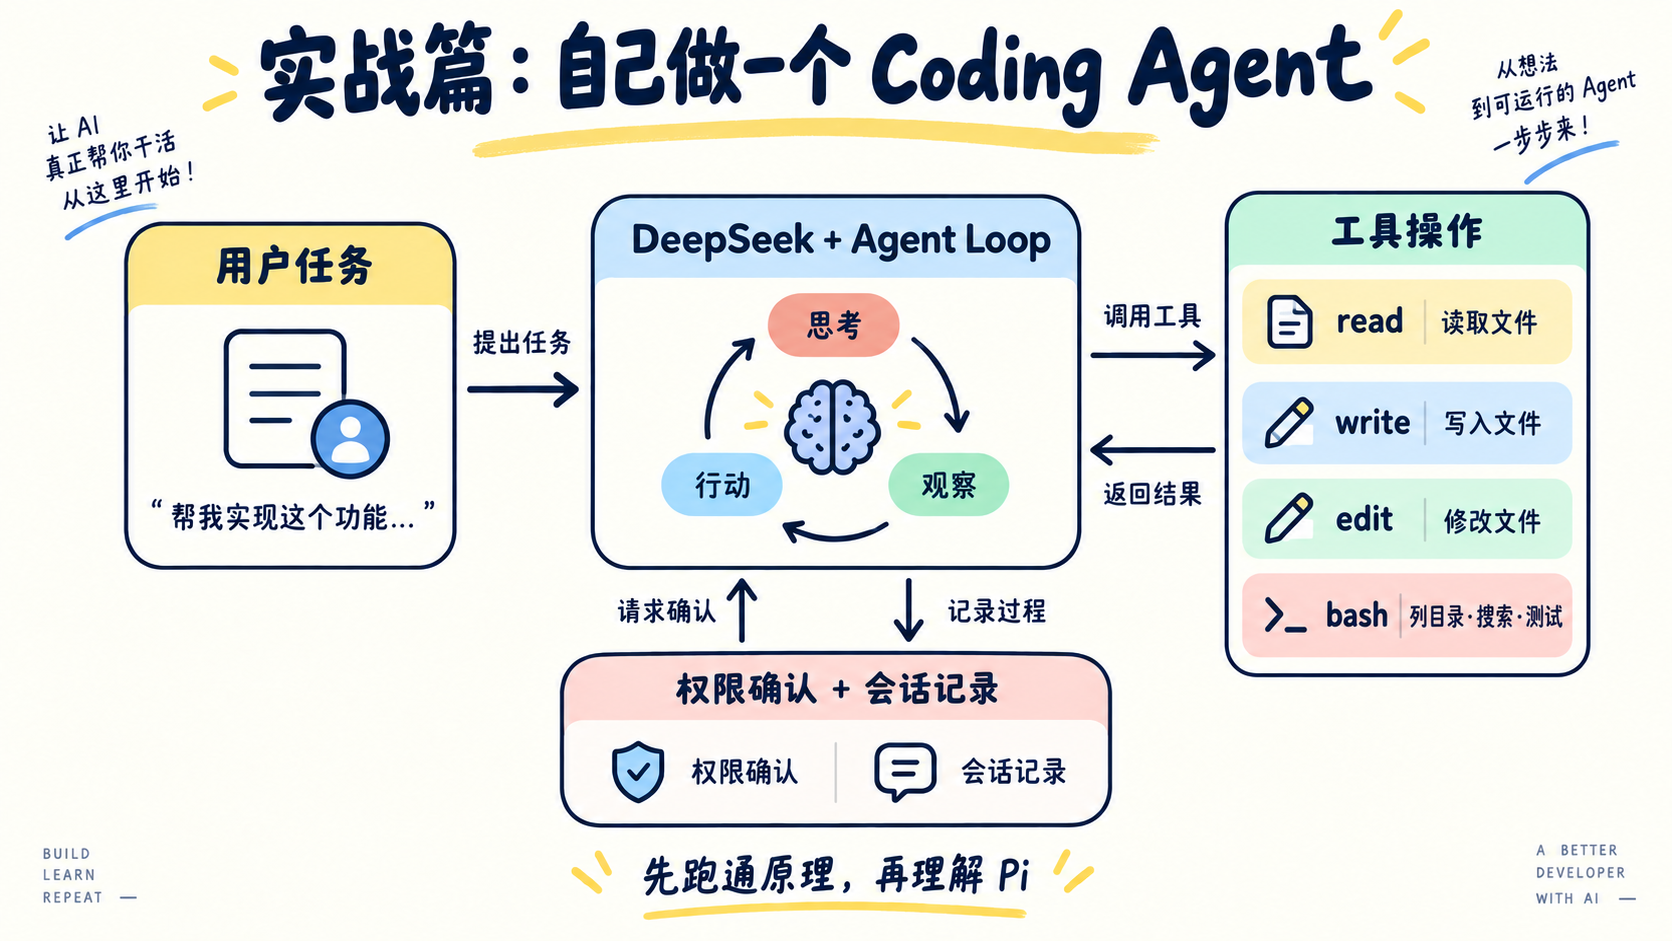
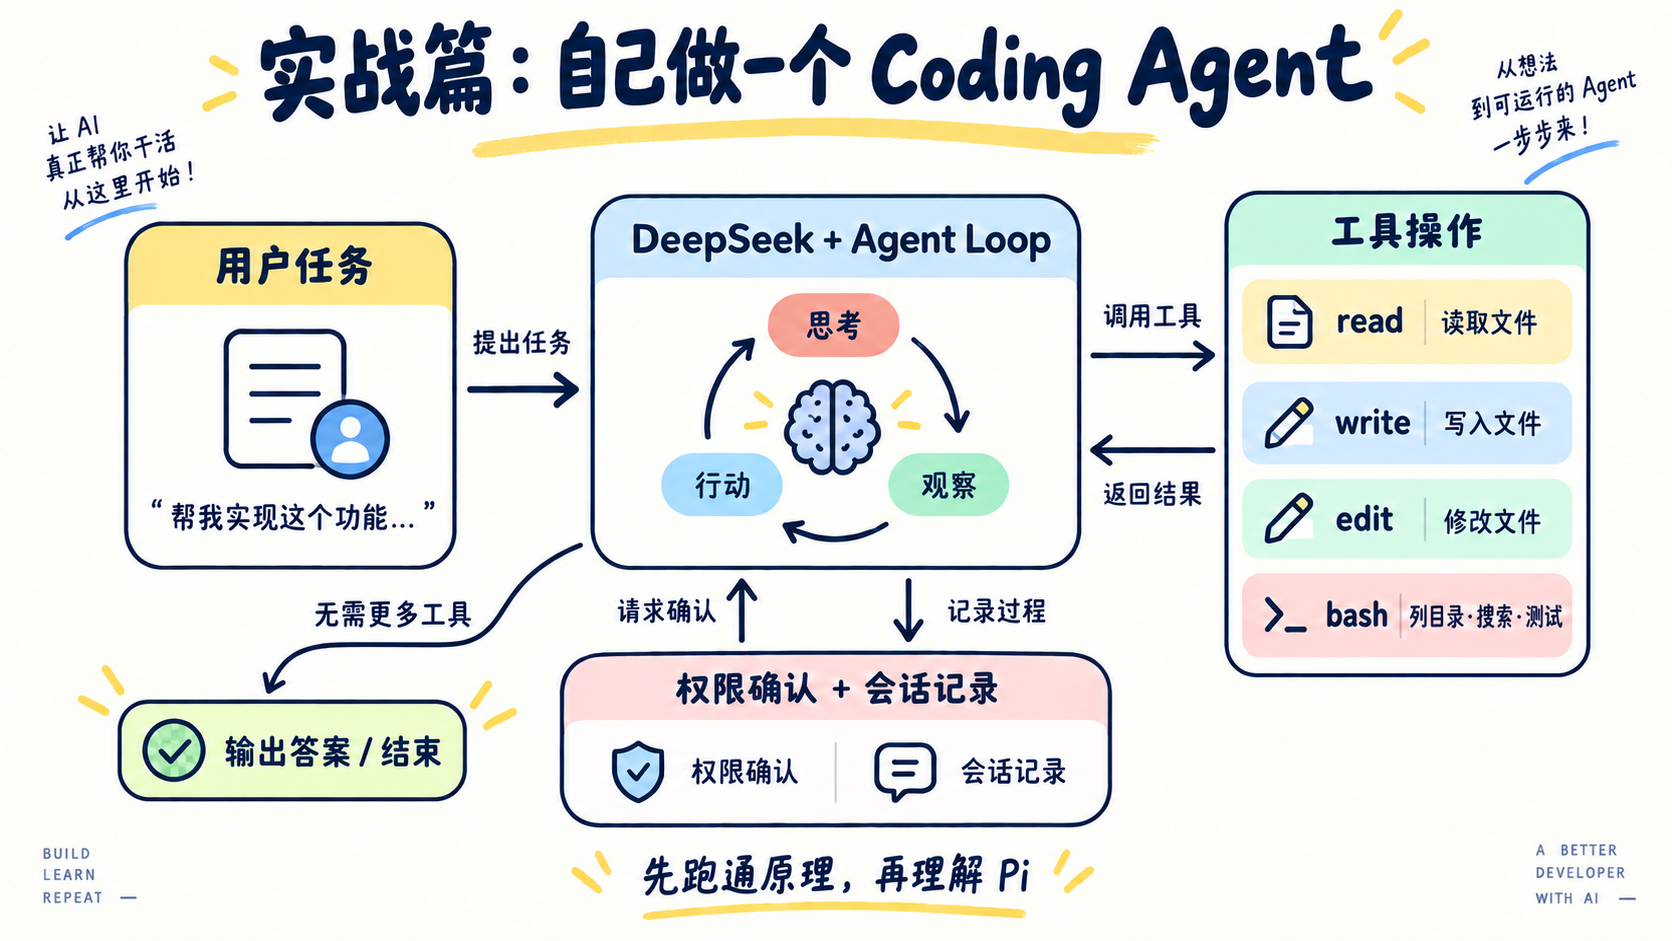
fix: clarify mini agent loop and termination

diff --git a/labs/01-mini-coding-agent/README.md b/labs/01-mini-coding-agent/README.md
@@ -14,7 +14,7 @@
 - DeepSeek 决定下一步，调用 `read / write / edit / bash`；
 - 工具结果回到循环，权限确认和会话记录由程序负责。
 
-这就是 Pi 这类 Coding Agent 的核心思想：模型提出下一步，Harness 负责把下一步安全地执行出来。工具不必越拆越多，很多动作都可以通过一个受控的 `bash` 完成。Pi 的完整实现使用 TypeScript/Node.js；本实战为了让前面 Python 教程可以直接延续，先用 Python 实现同一套最小结构。
+这张图展示的是本项目的 Python 教学实现，不是 Pi 的内部架构图。它借鉴了 Pi 的核心取舍：模型提出下一步，Harness 负责执行；工具保持少量，列目录、搜索和检查等动作交给 `bash`。Pi 的完整实现使用 TypeScript/Node.js，本实战则用 Python + DeepSeek 把同一类最小循环跑通。
 
 ## 能做什么？
 
@@ -29,7 +29,7 @@
 
 把“列文件”“搜索文本”“运行测试”分别做成工具当然可以，但工具一多，模型要记的接口也会变多。这里借鉴 Pi：把通用命令收进 `bash`，只保留最稳定的文件读写接口。
 
-程序会阻止访问 `.env`、`.git`、`.venv` 和会话目录；只读 Bash 命令可以自动执行，写入、运行代码和不确定命令，如果不是交互式终端，会默认拒绝。
+程序会阻止访问 `.env`、`.git`、`.venv` 和会话目录；只读 Bash 命令可以自动执行，写入、运行代码和不确定命令，如果不是交互式终端，会默认拒绝。图中的“权限确认 + 会话记录”是本项目额外加入的安全层，不代表 Pi 默认会弹出权限确认框。
 
 这不是完整的安全沙箱。`bash` 仍然是在当前用户权限下运行，所以只应该在自己信任的工作区中实验。
 
@@ -94,7 +94,7 @@ python labs/01-mini-coding-agent/agent.py \
 1. 核心循环尽量简单；
 2. 工具通过统一接口注册和执行；
 3. 能力通过扩展增加，而不是重写 Agent Loop；
-4. 会话、权限和工具边界由 Harness 管理。
+4. 会话和工具边界由 Harness 管理；本项目另外加了适合教学的权限确认。
 
 扩展阅读：
 

diff --git a/Agents.md b/Agents.md
@@ -15,6 +15,7 @@
 - 第二部分是实战篇：`labs/`，把理论机制重新组合成可运行的小项目。
 - 实战篇可以参考真实 Agent Harness（例如 Pi）的设计理念，但不要直接复制复杂实现；先保持 Python + DeepSeek + OpenAI SDK，确保初学者能读懂和运行。
 - 实战篇的最小 Coding Agent 默认采用 Pi 风格的四工具边界：`read`、`write`、`edit`、`bash`；列目录、搜索代码、查看状态和运行检查等能力优先通过受控的 `bash` 完成，不要为了每个动作单独注册工具。
+- 介绍 Pi 时要区分“默认四工具”与“本项目的安全实现”：Pi 默认并不以内置权限弹窗为核心；如果教学实现增加确认、工作区限制或会话策略，图文必须标明这是本项目额外加入的 Harness 层。
 - Pi 只作为扩展阅读或 TypeScript 实战入口，不替代理论篇的基础循环。
 
 ## 文字偏好
@@ -39,6 +40,7 @@
 - 图片中的文字必须清晰可辨认，不能依赖随机生成的长段文字。
 - 配色保持简洁：少量颜色表达角色或状态，不用复杂渐变和装饰性噪点。
 - 流程图需要明确区分：输入、模型决策、工具执行、工具结果、终止输出。
+- Agent Loop 配图必须画出终止分支：当模型不再调用工具时，进入“输出答案 / 结束”；不能只画一个没有出口的循环。
 - Mermaid 只能用于前期结构草稿或代码解释；正式章节首页不得用 Mermaid 替代 ImageGen 主图，也不要在同一章同时放 Mermaid 和含义相同的图片。
 
 ## 代码偏好
